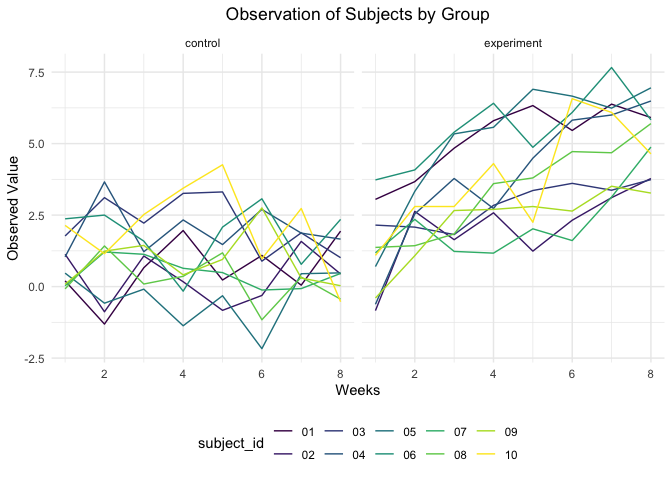
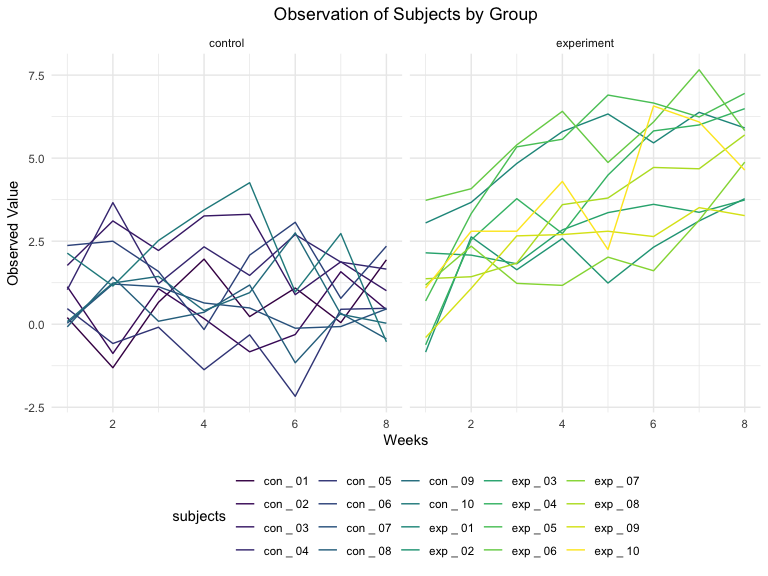
update p2 ggplot

diff --git a/p8105_hw5_pw2551.md b/p8105_hw5_pw2551.md
@@ -100,7 +100,7 @@ results_df %>%
   theme(axis.text.x = element_text(angle = 90, vjust = 0.5, hjust=1))
 ```
 
-![](p8105_hw5_pw2551_files/figure-gfm/unnamed-chunk-6-1.png)<!-- -->
+<img src="p8105_hw5_pw2551_files/figure-gfm/unnamed-chunk-6-1.png" width="90%" />
 <br> Another way to solve the question using `map2()`, will not evaluate
 here for concision purpose
 
@@ -124,40 +124,57 @@ homicide_df %>%
 
 ## Problem 2
 
+Read in data sets and store in a data frame
+
 ``` r
-# read in data sets, store in a data frame
 study_df = 
-  tibble(rel_path = list.files("./data/p2_data", pattern = ".csv")) %>% 
-  mutate(path = str_c("./data/p2_data/", rel_path),  # add prefix to data path
+  tibble(file_names = list.files("./data/p2_data", pattern = ".csv")) %>% 
+  mutate(path = str_c("./data/p2_data/", file_names),  # create relative paths
          content = map(.x = path, ~read_csv(.x))) %>% 
-  separate(rel_path, into = c("arms", "subject_id")) %>% 
+  separate(file_names, into = c("arms", "subject_id")) %>% 
   mutate(arms = as.factor(recode(arms, "con" = "control", "exp" = "experiment"))) %>% 
   select(-path) %>% 
   unnest(content)
+knitr::kable(study_df[1:5,])  # choose to display first five lines on purpose
 ```
 
+| arms    | subject_id | week_1 | week_2 | week_3 | week_4 | week_5 | week_6 | week_7 | week_8 |
+|:--------|:-----------|-------:|-------:|-------:|-------:|-------:|-------:|-------:|-------:|
+| control | 01         |   0.20 |  -1.31 |   0.66 |   1.96 |   0.23 |   1.09 |   0.05 |   1.94 |
+| control | 02         |   1.13 |  -0.88 |   1.07 |   0.17 |  -0.83 |  -0.31 |   1.58 |   0.44 |
+| control | 03         |   1.77 |   3.11 |   2.22 |   3.26 |   3.31 |   0.89 |   1.88 |   1.01 |
+| control | 04         |   1.04 |   3.66 |   1.22 |   2.33 |   1.47 |   2.70 |   1.87 |   1.66 |
+| control | 05         |   0.47 |  -0.58 |  -0.09 |  -1.37 |  -0.32 |  -2.17 |   0.45 |   0.48 |
+
+<br>Make a spaghetti plot
+
 ``` r
-# make a spaghetti plot
 study_df %>% 
   pivot_longer(week_1:week_8, 
                names_to = "weeks", 
                names_prefix = "week_", 
                values_to = "observations") %>% 
-  mutate(weeks = as.numeric(weeks)) %>% 
-  ggplot(aes(x = weeks, y = observations, group = subject_id)) +
-  geom_line(aes(color = subject_id)) +
+  mutate(weeks = as.numeric(weeks),
+         subjects = str_c(recode(arms, "control" = "con", "experiment" = "exp"), " _ ", subject_id)) %>% 
+  ggplot(aes(x = weeks, y = observations, group = subjects)) +
+  geom_line(aes(color = subjects)) +
   ggtitle("Observation of Subjects by Group") +
   theme(plot.title = element_text(hjust = 0.5)) +
   labs(x = "Weeks", y = "Observed Value") +
   facet_grid(.~arms)
 ```
 
-![](p8105_hw5_pw2551_files/figure-gfm/unnamed-chunk-9-1.png)<!-- -->
-<br> As we can see from the above spaghetti plot, there’s a clear
-positive trend in the experiment group as time goes by. On the contrary,
-the overall trend in the control group is nearly horizontal.<br>
+<img src="p8105_hw5_pw2551_files/figure-gfm/unnamed-chunk-9-1.png" width="90%" />
+<br> As we can see from the above spaghetti plot, subjects in both
+groups have similar observed values (observations) in general. As time
+goes by, the experiment group shows a clear positive trend. On the
+contrary, the overall trend in the control group is nearly horizontal.
+Thus, the experiment group has greater observed values than control
+group did. <br>
 
 ## Problem 3
+
+Get the dataset
 
 ``` r
 set.seed(10)
@@ -167,8 +184,9 @@ iris_with_missing = iris %>%
   janitor::clean_names()  # just to tidy things up
 ```
 
+Write the function to address problems
+
 ``` r
-# function to address problems
 iris_impute = function(col_vec){
   if(is.character(col_vec)){
     col_vec = replace_na(col_vec, "virginica")
@@ -178,15 +196,37 @@ iris_impute = function(col_vec){
   }
   return(col_vec)
 }
+```
 
-# applied the function to the iris_with_missing dataset
+Applied the function to the iris_with_missing dataset
+
+``` r
 iris_filled = 
   map(iris_with_missing, iris_impute) %>% 
   as_tibble() 
 ```
 
+Header of the imputed data set
+
+``` r
+knitr::kable(iris_filled[1:10,], digits = 2)
+```
+
+| sepal_length | sepal_width | petal_length | petal_width | species |
+|-------------:|------------:|-------------:|------------:|:--------|
+|         5.10 |         3.5 |         1.40 |        0.20 | setosa  |
+|         4.90 |         3.0 |         1.40 |        0.20 | setosa  |
+|         4.70 |         3.2 |         1.30 |        0.20 | setosa  |
+|         4.60 |         3.1 |         1.50 |        1.19 | setosa  |
+|         5.00 |         3.6 |         1.40 |        0.20 | setosa  |
+|         5.40 |         3.9 |         1.70 |        0.40 | setosa  |
+|         5.82 |         3.4 |         1.40 |        0.30 | setosa  |
+|         5.00 |         3.4 |         1.50 |        0.20 | setosa  |
+|         4.40 |         2.9 |         1.40 |        0.20 | setosa  |
+|         4.90 |         3.1 |         3.77 |        0.10 | setosa  |
+
 <br>Finally, I generate a table that counts NA values of the
-`iris_filled` dataset to demonstrate efficacies of the `iris_impute`
+`iris_filled` dataset to demonstrate the efficacy of the `iris_impute()`
 function
 
 ``` r
